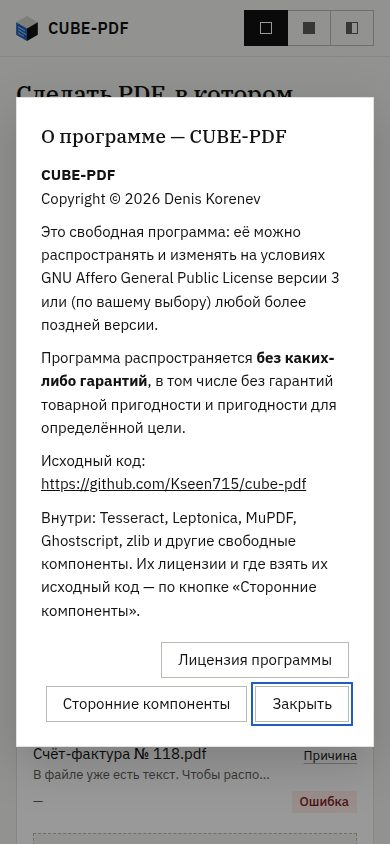
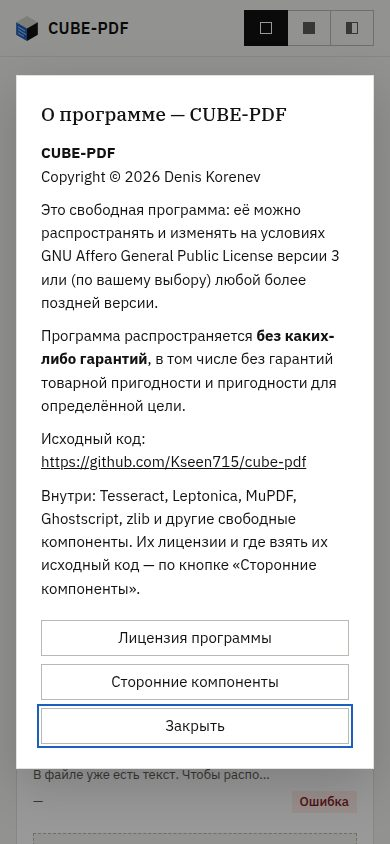
feat: update report timestamps and enhance dialog button layout

Changed region(s): [[0.0308, 0.0616, 0.9846, 0.9242]]

diff --git a/web/app.css b/web/app.css
@@ -774,4 +774,8 @@ dialog pre {
     .drop {
         min-height: 200px;
     }
+
+    .dialog-buttons {
+        flex-direction: column;
+    }
 }
